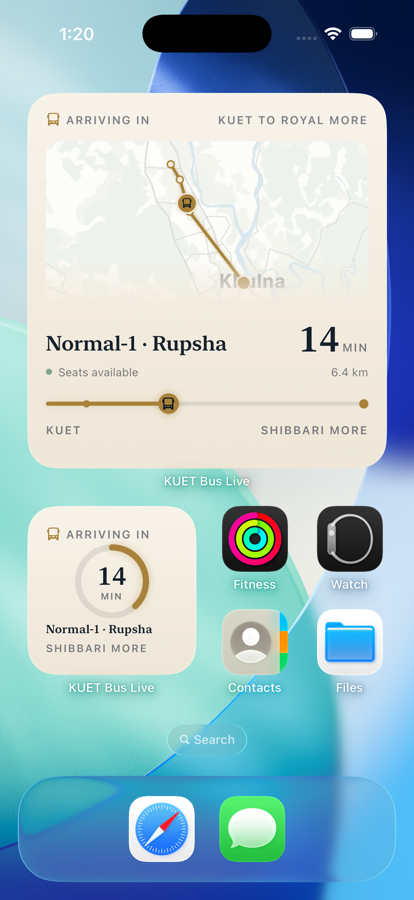
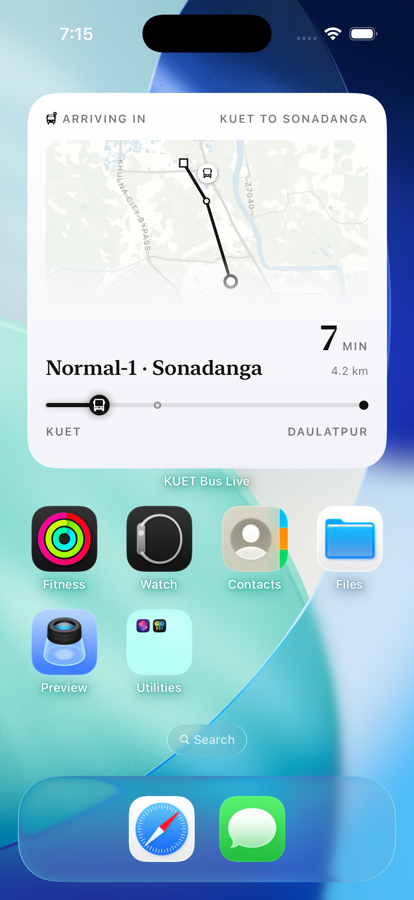
Refresh the widget, Live Activity and Dynamic Island screenshots, and show My trips
New pictures from the current build with the KUET bus mark, in light and
dark mode, plus the My trips screens.

diff --git a/README.md b/README.md
@@ -82,6 +82,7 @@ KUET Bus Live answers those three questions:
 | ⏱ ETA to your stop | "6 min, 5.3 km" to the stop you picked, refreshed as the bus moves. |
 | 🔔 Arrival alert | A notification when your bus is close. Each rider chooses how early, from 1 to 30 minutes (5 by default). |
 | 📅 Official timetable | All KUET trips (Sunday to Thursday and Saturday), with the next bus you can take today. |
+| 📌 My trips | Pin the buses you usually take, with the days, get a reminder before each, or add them to Calendar. |
 | 🎓 Bus allocation | Students see only *Normal* (student) buses. Teachers can ride any bus. |
 | 🪪 KUET ID verification | Roll number or employee ID, KUET email, email link and admin approval. |
 | 👥 Crowd reports | One tap to say "Seats available" or "Full", and everyone sees it instantly. |
@@ -94,8 +95,8 @@ KUET Bus Live answers those three questions:
 | 📍 Background location | The bus keeps moving on the map even when the driver locks the phone. |
 | 🇧🇩 Bangla | The whole app in Bangla when the phone (or just this app) is set to Bangla. |
 | ♿ Accessibility | VoiceOver labels, dark mode and large text that doesn't break the trip card. |
-| 🧪 Unit tests | 28 XCTest tests run on every push in CI. |
-| 📨 Server push (ready) | Cloud Function + FCM code for "Normal-2 just left campus", written but not deployed. |
+| 🧪 Unit tests | 182 XCTest tests and 73 security-rules tests run on every push in CI. |
+| 📨 Server push (ready) | Cloud Function + FCM for "Normal-2 just left campus" (teachers' buses go only to teachers), written but not deployed. |
 
 ---
 
@@ -621,6 +622,20 @@ There's no `audience` field in the file. The app works it out from the name: any
 
 The timetable screen also shows **"Next bus you can take today"**. It checks today's weekday (Sunday to Thursday, Saturday, or no buses on Friday), compares the times with the clock, and only looks at trips your role can ride.
 
+### My trips
+
+Riders pin the trips they usually take: swipe right or long-press a trip, pick which departure they take (from KUET or from the city spot), the days, and a reminder (off, or 5 to 60 minutes before). Pinned trips sit at the top of the timetable.
+
+<p align="center">
+  <img src="docs/my-trips-pin.png" alt="Pinning a trip" width="30%">
+  <img src="docs/my-trips-light.png" alt="My trips on the timetable, light" width="30%">
+  <img src="docs/my-trips-dark.png" alt="My trips on the timetable, dark" width="30%">
+</p>
+
+- Pins are saved in the account (`users/{uid}/myTrips/{scheduleId}`), so they follow the rider to another phone, the Android app included.
+- Reminders are local notifications: one weekly reminder per pinned day, in Bangladesh time, rebuilt whenever the pins or the timetable change.
+- **Add to Calendar** opens the system's own event screen with a weekly repeat on the picked days, so the app never asks for calendar access.
+
 ---
 
 ## Crowd reports
@@ -690,10 +705,13 @@ A **WidgetKit** extension (`KUETBusWidget`) shows the next bus without opening t
 | Large | A map of my route with the bus on it, then the same track, ETA and crowd |
 
 <p align="center">
-  <img src="docs/widget-home-screen.png" alt="Medium widget" width="30%">
-  <img src="docs/widget-large-light.png" alt="Large and small widgets, light" width="30%">
-  <img src="docs/widget-large-dark.png" alt="Large and small widgets, dark" width="30%">
+  <img src="docs/widget-small-light.png" alt="Small widget" width="24%">
+  <img src="docs/widget-home-screen.png" alt="Medium widget" width="24%">
+  <img src="docs/widget-large-light.png" alt="Large widget, light" width="24%">
+  <img src="docs/widget-large-dark.png" alt="Large widget, dark" width="24%">
 </p>
+
+The small header shows the KUET bus and pin from the app icon, in one colour (`KUETBusWidget/Assets.xcassets/LogoMark`), so it takes the widget tint like an SF Symbol. The Live Activity and the Dynamic Island use the same mark.
 
 **Look.** The colours live in one file, `KUETBusWidget/WidgetTheme.swift`, with a light and a dark version of each:
 
